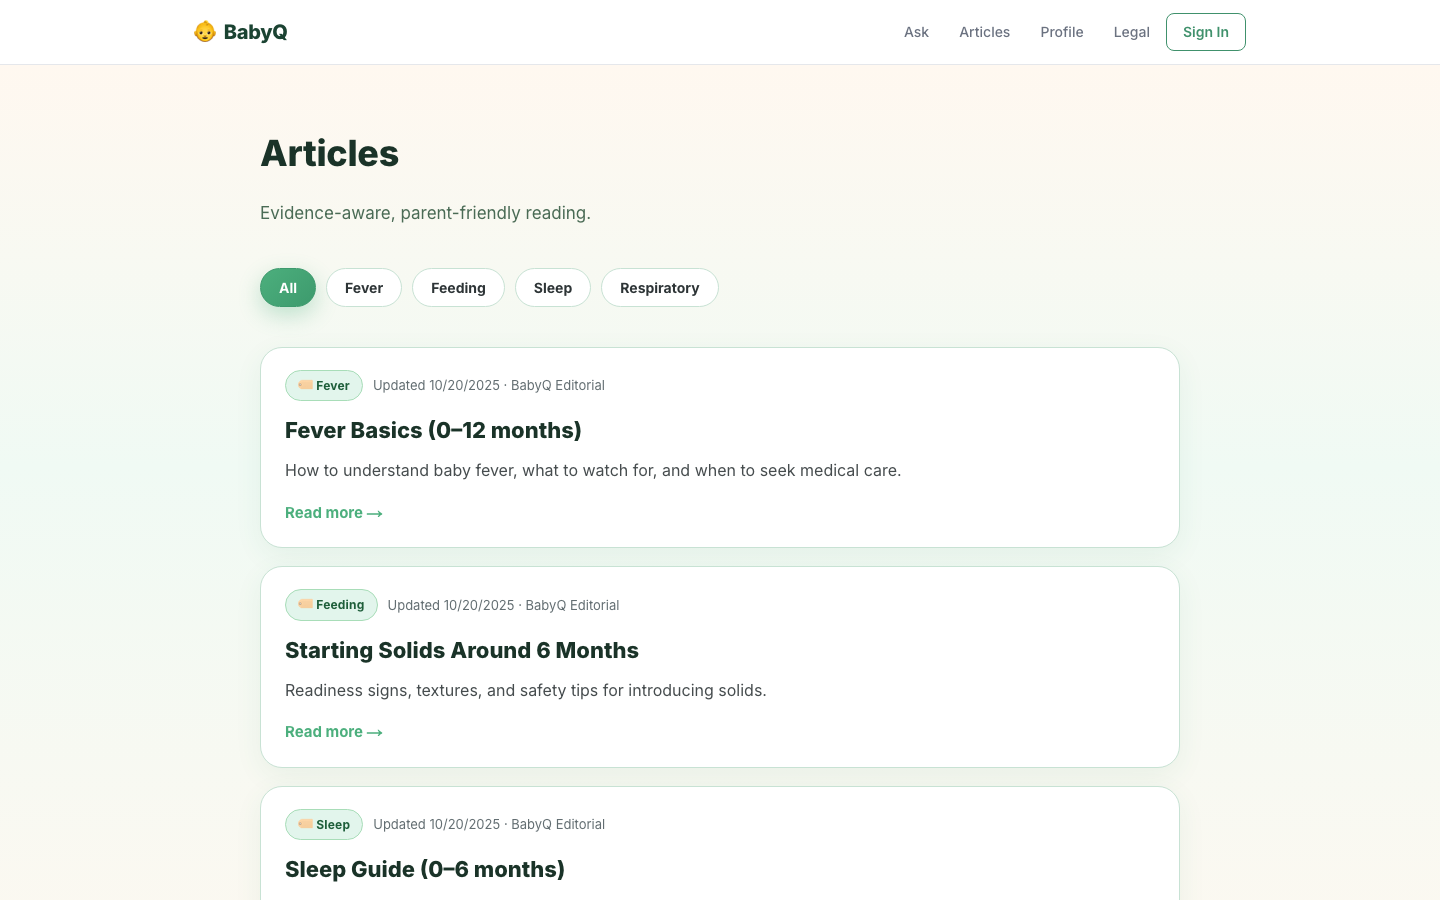
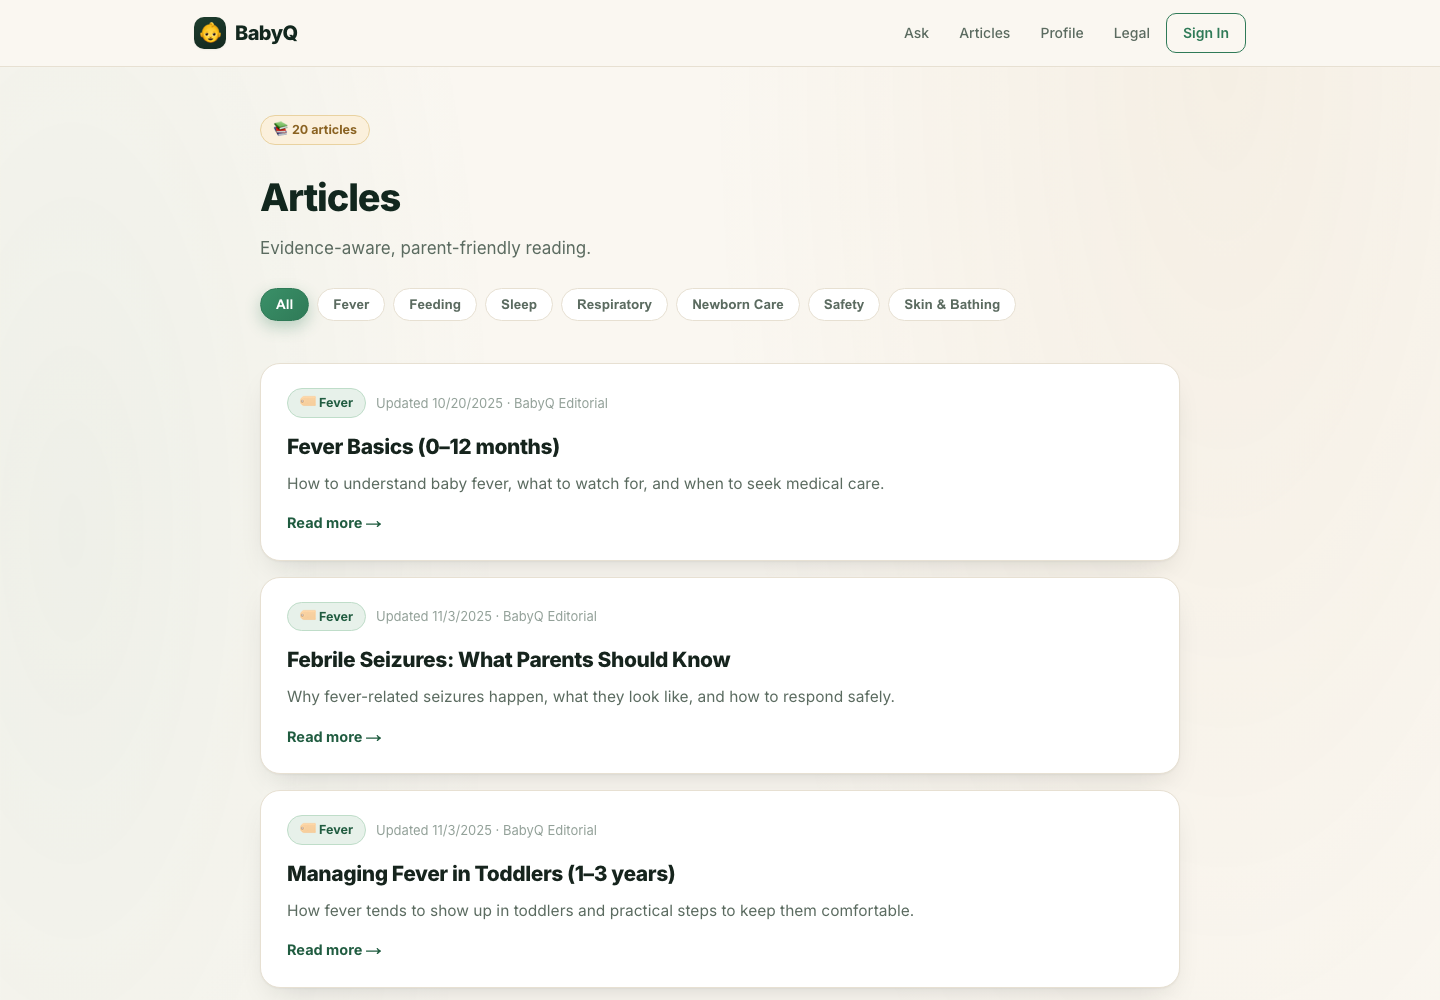
Update README screenshots and docs for the redesign
Screenshots were from the old flat-green UI, stale after the full
visual redesign. Retook all three from the live site with a real
English question this time. Also documented the multi-baby profiles,
PostHog analytics, and 20-article/7-category library that shipped
alongside the redesign, and added the PostHog env vars to setup.

diff --git a/README.md b/README.md
@@ -30,8 +30,9 @@ Parents often turn to search engines at 2 a.m. with vague, anxious questions abo
   2. **FAQ matching** scores a Supabase-backed FAQ table by age range and keyword overlap.
   3. **Gemini fallback chain** (`gemini-flash-lite-latest` → `gemini-flash-latest` → `gemini-pro-latest`, Google's self-updating model aliases) generates a grounded answer using the top FAQ matches as context, with a shorter retry prompt if the first call fails.
 - **Bilingual (TR/EN)** — auto language detection from input text (with `?lang=` override), covering UI copy, prompts, and disclaimers.
-- **Auth & history** — Supabase email/password auth; logged-in users get persisted question history and a baby profile (guests fall back to `localStorage`).
-- **Articles library** — static, editorially-written reference articles (fever, feeding, sleep, respiratory) with sources.
+- **Auth & multi-baby profiles** — Supabase email/password auth; logged-in users can save more than one child, pick who a question is about on the Ask page, and get persisted question history (guests fall back to `localStorage`).
+- **Articles library** — 20 editorially-written reference articles across 7 categories (fever, feeding, sleep, respiratory, newborn care, safety, skin & bathing) with sources.
+- **Product analytics** — PostHog-instrumented activation funnel (`$pageview` → `ask_started` → `answer_received` → `signup_completed`).
 - **PWA** — installable, offline-capable via `manifest.json` + service worker.
 - **Feedback loop** — thumbs up/down on AI answers, stored for future quality review.
 
@@ -66,6 +67,7 @@ Parents often turn to search engines at 2 a.m. with vague, anxious questions abo
 | UI | React 19, TypeScript, Tailwind CSS v4 |
 | Auth & DB | Supabase (Postgres, email/password auth) |
 | AI | Google Gemini (`flash-lite-latest` / `flash-latest` / `pro-latest`) |
+| Analytics | PostHog (activation funnel, autocapture) |
 | Deployment | Vercel |
 | PWA | Web App Manifest + custom service worker |
 
@@ -97,9 +99,13 @@ NEXT_PUBLIC_SUPABASE_ANON_KEY=your-anon-key
 
 # AI
 GEMINI_API_KEY=your-gemini-api-key
+
+# Analytics (optional — omit to run without PostHog)
+NEXT_PUBLIC_POSTHOG_KEY=your-posthog-project-key
+NEXT_PUBLIC_POSTHOG_HOST=https://eu.i.posthog.com
 ```
 
-Run the SQL in [`supabase/migrations`](supabase/migrations) (in order) via the Supabase SQL Editor to create the `faqs`, `questions`, `feedback`, and `profiles` tables with Row Level Security policies, plus a small seed set of FAQs.
+Run the SQL in [`supabase/migrations`](supabase/migrations) (in order) via the Supabase SQL Editor to create the `faqs`, `questions`, `feedback`, `profiles`, and `babies` tables with Row Level Security policies, plus a small seed set of FAQs.
 
 ```bash
 npm run dev
